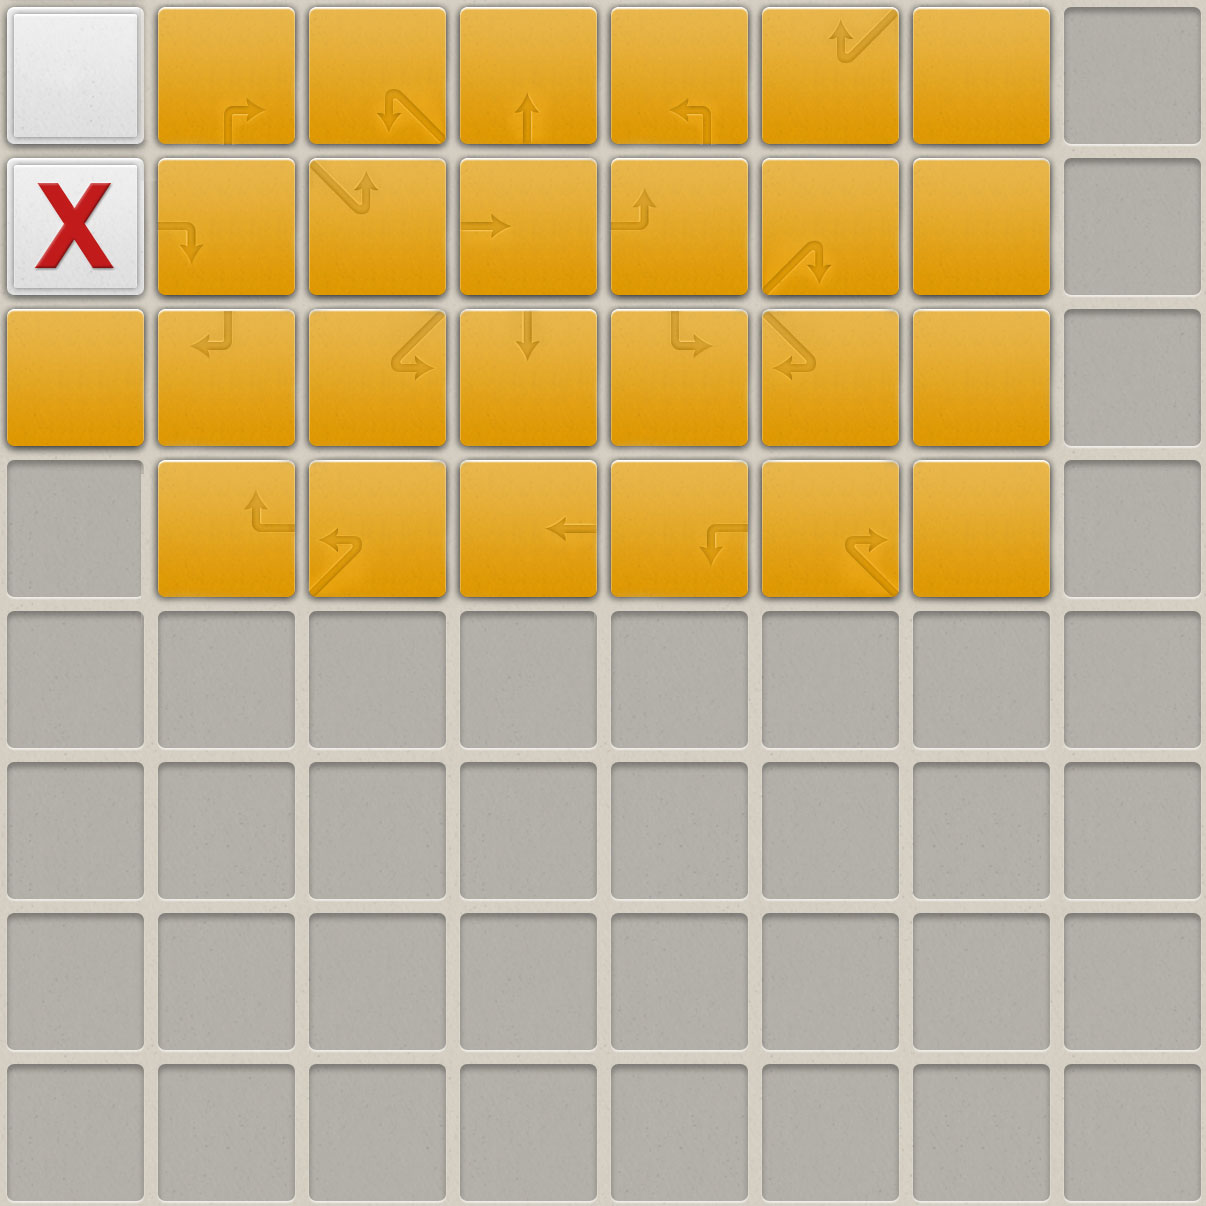
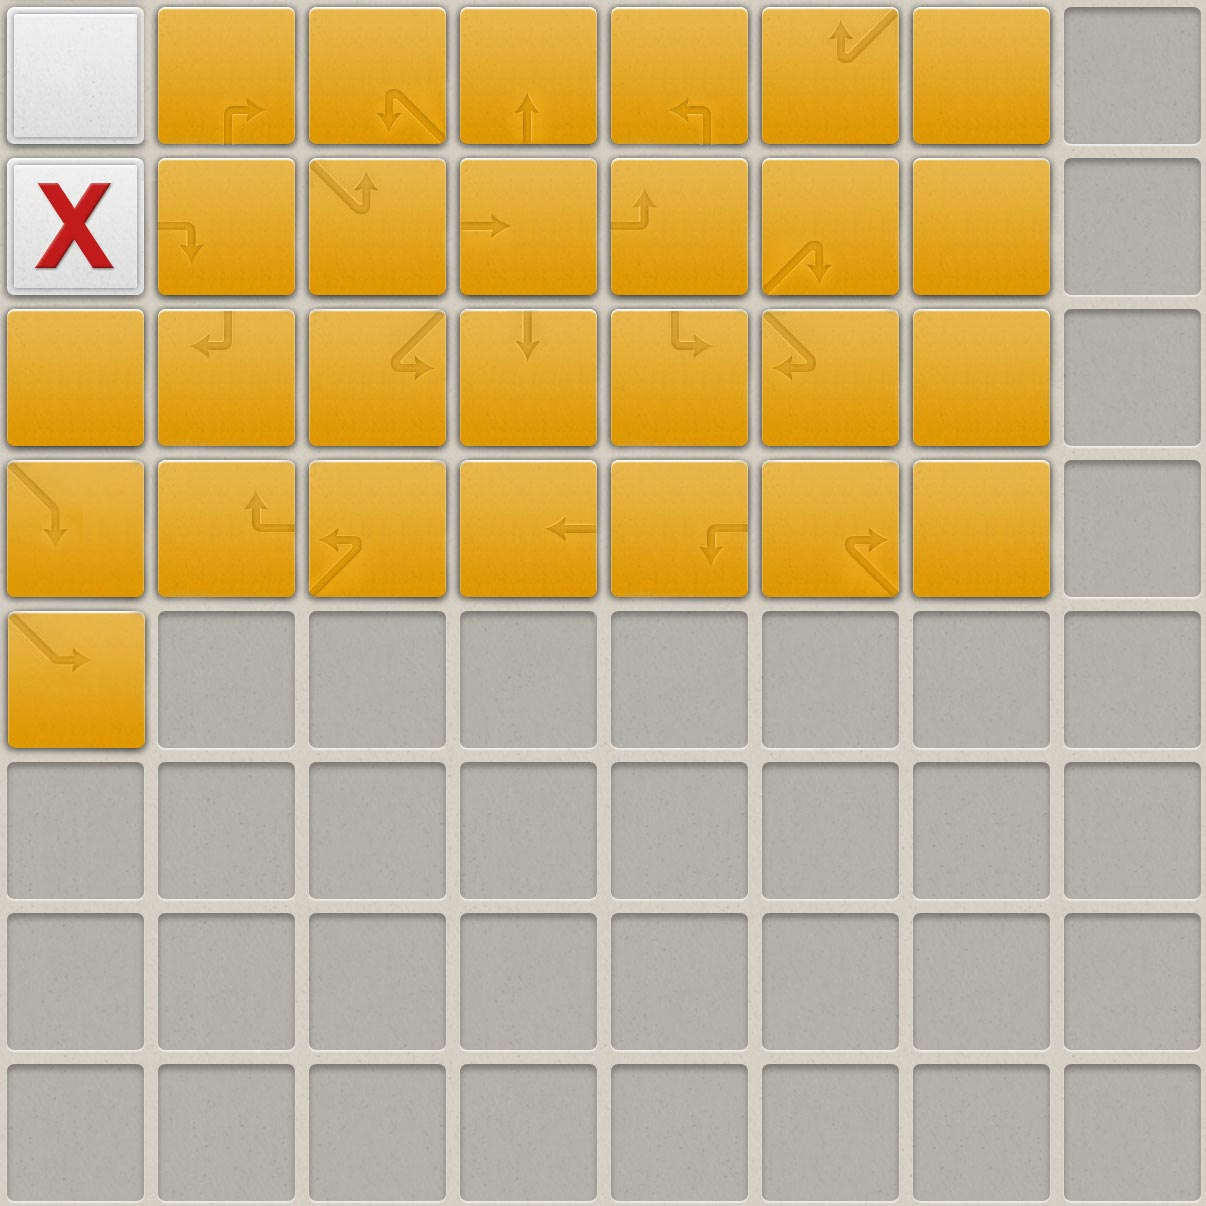
ARROWS HOTFIX

diff --git a/public/css/puzzle.css b/public/css/puzzle.css
@@ -196,8 +196,16 @@
     background-position: -100px -50px;
 }
 
-[data-type="hint"][data-arrow="south-east:right"]:before{}
-[data-type="hint"][data-arrow="south-east:bottom"]:before{}
+[data-type="hint"][data-arrow="south-east:right"]:before{
+    top: 50px;
+    left: 50px;
+    background-position: 0 -200px;
+}
+[data-type="hint"][data-arrow="south-east:bottom"]:before{
+    top: 50px;
+    left: 50px;
+    background-position: 0 -150px;
+}
 
 [data-type="hint"][data-arrow="south:left"]:before{
     top: 50px;
@@ -591,6 +599,7 @@
 
 .arrow-control-hover [data-arrow-control="west:bottom"]{ left: 254px; top: 669px; }
 .arrow-control-hover [data-arrow-control="north:right"]{ left: 52px; top: 48px; }
+.arrow-control-hover [data-arrow-control="north-east:right"]{ left: 102px; top: 47px; }
 .arrow-control-hover [data-arrow-control="north-east:bottom"]{ left: 102px; top: 47px; }
 .arrow-control-hover [data-arrow-control="east:right"]{ left: 101px; top: 97px; }
 .arrow-control-hover [data-arrow-control="east:bottom"]{ left: 150px; top: 98px; }
